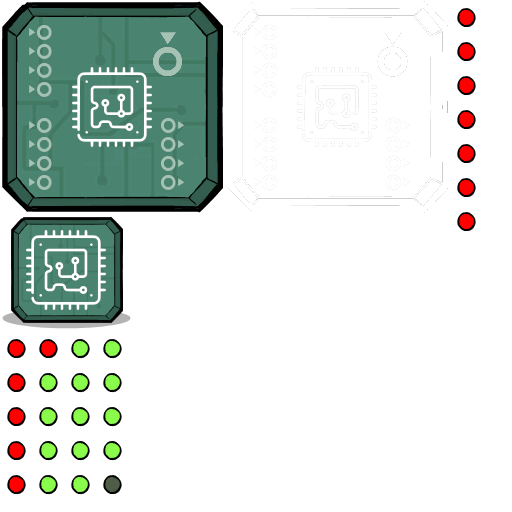
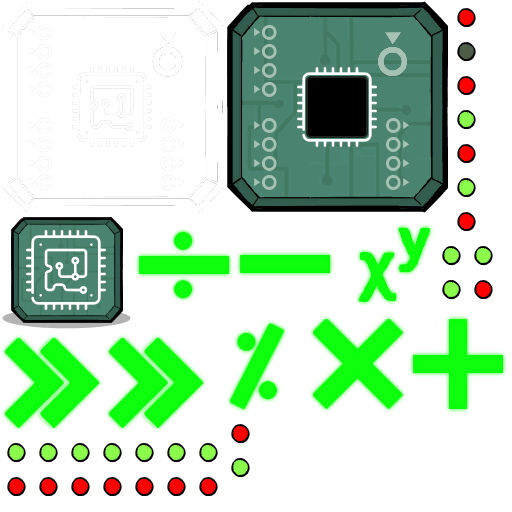
Updated Animations, corrected perf bugs, enabled op code selection

diff --git a/AutomationPlus/AluGate.cs b/AutomationPlus/AluGate.cs
@@ -165,6 +165,13 @@ namespace AutomationPlus
         private KBatchedAnimController kbac;
 
         [Serialize]
+        private int lhs;
+        [Serialize]
+        private int rhs;
+        [Serialize]
+        private AluGateOperators _inputOpCode;
+ 
+        [Serialize]
         protected int currentValue = 0;
         [Serialize]
         private AluGateOperators _opCode = AluGateOperators.none;
@@ -236,6 +243,7 @@ namespace AutomationPlus
             Action<AluGate, object> p = (c, d) => c.OnLogicValueChanged(d);
             this.kbac = this.GetComponent<KBatchedAnimController>();
             this.kbac.Play((HashedString)"off");
+            //this.kbac.Play("on_0");
             this.Subscribe<AluGate>(-801688580, p);
             this.ports = this.GetComponent<LogicPorts>();
             RefreshAnimations();
@@ -298,18 +306,44 @@ namespace AutomationPlus
             this.GetComponent<LogicPorts>().SendSignal(AluGate.OUTPUT_PORT_ID, currentValue);
         }
 
-        protected virtual bool ShouldRecalcValue(LogicValueChanged logicValueChanged) {
+        protected virtual bool HasPort(HashedString portId)
+        {
+            return portId == AluGate.INPUT_PORT_ID1
+                || portId == AluGate.INPUT_PORT_ID2
+                || portId == AluGate.OP_PORT_ID;
+
+        }
+        protected virtual bool HasValueChanged()
+        {
+            var currentLhs = GetInputValue1();
+            var currentRhs = GetInputValue2();
+            var currentOp = GetOpCode();
+
+            return currentLhs != lhs || currentRhs != rhs || currentOp != _inputOpCode;
+        }
+
+        protected virtual bool ShouldRecalcValue(LogicValueChanged logicValueChanged)
+        {
             return !(logicValueChanged.portID == AluGate.OUTPUT_PORT_ID);
         }
 
         public void OnLogicValueChanged(object data)
         {
+            LogicValueChanged logicValueChanged = (LogicValueChanged)data;
+
+            if (!this.HasPort(logicValueChanged.portID))
+            {
+                return;
+            }
+            if (!HasValueChanged())
+            {
+                return;
+            }
             if (this.ValueChanged != null)
             {
                 this.ValueChanged(this, EventArgs.Empty);
             }
 
-            LogicValueChanged logicValueChanged = (LogicValueChanged)data;
             if (!ShouldRecalcValue(logicValueChanged))
             {
                 RefreshAnimations();
@@ -322,53 +356,58 @@ namespace AutomationPlus
 
         private void RefreshAnimations()
         {
-            var val1 = GetInputValue1();
-            var val2 = GetInputValue2();
             var nw1 = Game.Instance.logicCircuitManager.GetNetworkForCell(this.ports.GetPortCell(AluGate.INPUT_PORT_ID1));
             var nw2 = Game.Instance.logicCircuitManager.GetNetworkForCell(this.ports.GetPortCell(AluGate.INPUT_PORT_ID2));
             var nwOp = Game.Instance.logicCircuitManager.GetNetworkForCell(this.ports.GetPortCell(AluGate.OP_PORT_ID));
             var nwOut = Game.Instance.logicCircuitManager.GetNetworkForCell(this.ports.GetPortCell(AluGate.OUTPUT_PORT_ID));
 
-            if (true)
+            if (false)
             {
+
+                this.kbac.Play("on");
+
+
                 this.TintSymbolConditionally(nwOp, () => nwOp.OutputValue > 0, this.kbac, "light5_bloom");
 
-                this.TintSymbolConditionally(nwOut, () => LogicCircuitNetwork.IsBitActive(3, currentValue), this.kbac, "light1_bloom");
+                this.TintSymbolConditionally(nwOut, () => LogicCircuitNetwork.IsBitActive(3, currentValue), this.kbac, "light1_bloom"); //12
                 this.TintSymbolConditionally(nwOut, () => LogicCircuitNetwork.IsBitActive(2, currentValue), this.kbac, "light2_bloom");
                 this.TintSymbolConditionally(nwOut, () => LogicCircuitNetwork.IsBitActive(1, currentValue), this.kbac, "light3_bloom");
-                this.TintSymbolConditionally(nwOut, () => LogicCircuitNetwork.IsBitActive(0, currentValue), this.kbac, "light4_bloom");
+                this.TintSymbolConditionally(nwOut, () => LogicCircuitNetwork.IsBitActive(0, currentValue), this.kbac, "light4_bloom"); // 9
 
-                this.TintSymbolConditionally(nw2, () => LogicCircuitNetwork.IsBitActive(3, val2), this.kbac, "light6_bloom");
-                this.TintSymbolConditionally(nw2, () => LogicCircuitNetwork.IsBitActive(2, val2), this.kbac, "light7_bloom");
-                this.TintSymbolConditionally(nw2, () => LogicCircuitNetwork.IsBitActive(1, val2), this.kbac, "light8_bloom");
-                this.TintSymbolConditionally(nw2, () => LogicCircuitNetwork.IsBitActive(0, val2), this.kbac, "light9_bloom");
+                this.TintSymbolConditionally(nw2, () => LogicCircuitNetwork.IsBitActive(3, rhs), this.kbac, "light6_bloom");  // 7
+                this.TintSymbolConditionally(nw2, () => LogicCircuitNetwork.IsBitActive(2, rhs), this.kbac, "light7_bloom");
+                this.TintSymbolConditionally(nw2, () => LogicCircuitNetwork.IsBitActive(1, rhs), this.kbac, "light8_bloom");
+                this.TintSymbolConditionally(nw2, () => LogicCircuitNetwork.IsBitActive(0, rhs), this.kbac, "light9_bloom");  // 4
 
-                this.TintSymbolConditionally(nw1, () => LogicCircuitNetwork.IsBitActive(3, val1), this.kbac, "light10_bloom");
-                this.TintSymbolConditionally(nw1, () => LogicCircuitNetwork.IsBitActive(2, val1), this.kbac, "light11_bloom");
-                this.TintSymbolConditionally(nw1, () => LogicCircuitNetwork.IsBitActive(1, val1), this.kbac, "light12_bloom");
-                this.TintSymbolConditionally(nw1, () => LogicCircuitNetwork.IsBitActive(0, val1), this.kbac, "light13_bloom");
+                this.TintSymbolConditionally(nw1, () => LogicCircuitNetwork.IsBitActive(3, lhs), this.kbac, "light10_bloom");  // 3
+                this.TintSymbolConditionally(nw1, () => LogicCircuitNetwork.IsBitActive(2, lhs), this.kbac, "light11_bloom");
+                this.TintSymbolConditionally(nw1, () => LogicCircuitNetwork.IsBitActive(1, lhs), this.kbac, "light12_bloom");
+                this.TintSymbolConditionally(nw1, () => LogicCircuitNetwork.IsBitActive(0, lhs), this.kbac, "light13_bloom");  // 0
             }
             else
             {
                 if (nw1 != null && nw2 != null && nwOut != null)
                 {
                     this.kbac.Play("on_0");
-                    ShowSymbolConditionally(nwOp?.OutputValue > 0, $"light_bloom_green_{4}", $"light_bloom_red_{4}");
 
-                    ShowSymbolConditionally(LogicCircuitNetwork.IsBitActive(3, currentValue), $"light_bloom_green_{0}", $"light_bloom_red_{0}");
-                    ShowSymbolConditionally(LogicCircuitNetwork.IsBitActive(2, currentValue), $"light_bloom_green_{1}", $"light_bloom_red_{1}");
-                    ShowSymbolConditionally(LogicCircuitNetwork.IsBitActive(1, currentValue), $"light_bloom_green_{2}", $"light_bloom_red_{2}");
-                    ShowSymbolConditionally(LogicCircuitNetwork.IsBitActive(0, currentValue), $"light_bloom_green_{3}", $"light_bloom_red_{3}");
+                    ShowSymbolConditionally(nwOp, () => nwOp.OutputValue > 0, $"light{8}_bloom_green", $"light{8}_bloom_red");
 
-                    ShowSymbolConditionally(LogicCircuitNetwork.IsBitActive(3, val2), $"light_bloom_green_{5}", $"light_bloom_red_{5}");
-                    ShowSymbolConditionally(LogicCircuitNetwork.IsBitActive(2, val2), $"light_bloom_green_{6}", $"light_bloom_red_{6}");
-                    ShowSymbolConditionally(LogicCircuitNetwork.IsBitActive(1, val2), $"light_bloom_green_{7}", $"light_bloom_red_{7}");
-                    ShowSymbolConditionally(LogicCircuitNetwork.IsBitActive(0, val2), $"light_bloom_green_{8}", $"light_bloom_red_{8}");
+                    ShowSymbolConditionally(nwOut, () => LogicCircuitNetwork.IsBitActive(3, currentValue), $"light{12}_bloom_green", $"light{12}_bloom_red");
+                    ShowSymbolConditionally(nwOut, () => LogicCircuitNetwork.IsBitActive(2, currentValue), $"light{11}_bloom_green", $"light{11}_bloom_red");
+                    ShowSymbolConditionally(nwOut, () => LogicCircuitNetwork.IsBitActive(1, currentValue), $"light{10}_bloom_green", $"light{10}_bloom_red");
+                    ShowSymbolConditionally(nwOut, () => LogicCircuitNetwork.IsBitActive(0, currentValue), $"light{9}_bloom_green", $"light{9}_bloom_red");
 
-                    ShowSymbolConditionally(LogicCircuitNetwork.IsBitActive(3, val1), $"light_bloom_green_{9}", $"light_bloom_red_{9}");
-                    ShowSymbolConditionally(LogicCircuitNetwork.IsBitActive(2, val1), $"light_bloom_green_{10}", $"light_bloom_red_{10}");
-                    ShowSymbolConditionally(LogicCircuitNetwork.IsBitActive(1, val1), $"light_bloom_green_{11}", $"light_bloom_red_{11}");
-                    ShowSymbolConditionally(LogicCircuitNetwork.IsBitActive(0, val1), $"light_bloom_green_{12}", $"light_bloom_red_{12}");
+                    ShowSymbolConditionally(nw2, () => LogicCircuitNetwork.IsBitActive(3, rhs), $"light{7}_bloom_green", $"light{7}_bloom_red");
+                    ShowSymbolConditionally(nw2, () => LogicCircuitNetwork.IsBitActive(2, rhs), $"light{6}_bloom_green", $"light{6}_bloom_red");
+                    ShowSymbolConditionally(nw2, () => LogicCircuitNetwork.IsBitActive(1, rhs), $"light{5}_bloom_green", $"light{5}_bloom_red");
+                    ShowSymbolConditionally(nw2, () => LogicCircuitNetwork.IsBitActive(0, rhs), $"light{4}_bloom_green", $"light{4}_bloom_red");
+
+                    ShowSymbolConditionally(nw1, () => LogicCircuitNetwork.IsBitActive(3, lhs), $"light{3}_bloom_green", $"light{3}_bloom_red");
+                    ShowSymbolConditionally(nw1, () => LogicCircuitNetwork.IsBitActive(2, lhs), $"light{2}_bloom_green", $"light{2}_bloom_red");
+                    ShowSymbolConditionally(nw1, () => LogicCircuitNetwork.IsBitActive(1, lhs), $"light{1}_bloom_green", $"light{1}_bloom_red");
+                    ShowSymbolConditionally(nw1, () => LogicCircuitNetwork.IsBitActive(0, lhs), $"light{0}_bloom_green", $"light{0}_bloom_red");
+
+                    DisplayOperator();
 
                 }
                 else
@@ -384,12 +423,33 @@ namespace AutomationPlus
             }
         }
 
+        private void DisplayOperator()
+        {
+            ToggleOperator(_inputOpCode == AluGateOperators.add, "op_add");
+            ToggleOperator(_inputOpCode == AluGateOperators.divide, "op_div");
+            ToggleOperator(_inputOpCode == AluGateOperators.exp, "op_exp");
+            ToggleOperator(_inputOpCode == AluGateOperators.logicalBitLeft, "op_bits_left");
+            ToggleOperator(_inputOpCode == AluGateOperators.logicalBitRight, "op_bits_right");
+            ToggleOperator(_inputOpCode == AluGateOperators.modulus, "op_mod");
+            ToggleOperator(_inputOpCode == AluGateOperators.multiply, "op_mul");
+            ToggleOperator(_inputOpCode == AluGateOperators.subtract, "op_minus");
+        }
+
+        private void ToggleOperator(
+          bool isOperator,
+          KAnimHashedString anim)
+        {
+            kbac.SetSymbolVisiblity(anim, isOperator);
+        }
+
         private void RecalcValues()
         {
-            var lhs = this.GetInputValue1();
-            var rhs = this.GetInputValue2();
+            lhs = this.GetInputValue1();
+            rhs = this.GetInputValue2();
+            this._inputOpCode = this.GetOpCode();
+            var oldValue = currentValue;
             currentValue = 0;
-            switch (this.GetOpCode())
+            switch (_inputOpCode)
             {
                 case AluGateOperators.add:
                     currentValue = lhs + rhs;
@@ -443,18 +503,23 @@ namespace AutomationPlus
             }
             // reduce the values
             currentValue = checkOverflow(currentValue);
-            this.UpdateValue();
+            if (oldValue != currentValue)
+            {
+                this.UpdateValue();
+            }
         }
 
 
 
         private void ShowSymbolConditionally(
-          bool active,
+            object nw,
+          Func<bool> active,
           KAnimHashedString ifTrue,
           KAnimHashedString ifFalse)
         {
-            kbac.SetSymbolVisiblity(ifTrue, active);
-            kbac.SetSymbolVisiblity(ifFalse, !active);
+            var connected = nw != null;
+            kbac.SetSymbolVisiblity(ifTrue, connected && active());
+            kbac.SetSymbolVisiblity(ifFalse, connected && !active());
         }
 
         private void TintSymbolConditionally(

diff --git a/AutomationPlus/DisplayAdaptor.cs b/AutomationPlus/DisplayAdaptor.cs
@@ -83,13 +83,11 @@ namespace AutomationPlus
             LogicValueChanged logicValueChanged = (LogicValueChanged)data;
             if (logicValueChanged.portID != DisplayAdaptor.INPUT_PORT_ID)
                 return;
-            var key = currentValue = logicValueChanged.newValue;
-            var info = DisplayInfo.GetDisplayInfo(IsHexMode, key);
-            this.GetComponent<LogicPorts>().SendSignal(DisplayAdaptor.OUTPUT_PORT_ID1, info.RibbonOutputs[0]);
-            this.GetComponent<LogicPorts>().SendSignal(DisplayAdaptor.OUTPUT_PORT_ID2, info.RibbonOutputs[1]);
-            this.GetComponent<LogicPorts>().SendSignal(DisplayAdaptor.OUTPUT_PORT_ID3, info.RibbonOutputs[2]);
-            this.GetComponent<LogicPorts>().SendSignal(DisplayAdaptor.OUTPUT_PORT_ID4, info.RibbonOutputs[3]);
-            this.GetComponent<LogicPorts>().SendSignal(DisplayAdaptor.OUTPUT_PORT_ID5, info.RibbonOutputs[4]);
+            if (currentValue != GetInputValue())
+            {
+                currentValue = GetInputValue();
+                RefreshOutput();
+            }
         }
 
         private void RefreshOutput()

diff --git a/AutomationPlus/DelayGate2.cs b/AutomationPlus/DelayGate2.cs
@@ -134,7 +134,6 @@ namespace AutomationPlus
         private int CurrentValue;
         private bool connected;
         private LogicPortVisualizer outputOne;
-        private float elapsedTime;
 
         private int DelayAmountTicks => Mathf.RoundToInt(this.delayAmount / LogicCircuitManager.ClockTickInterval);
 
@@ -242,7 +241,8 @@ namespace AutomationPlus
             if (logicValueChanged.portID == DelayGate.INPUT_PORT_ID)
             {
                 var last = this.info.journal.LastOrDefault();
-                if (last == null || last.value != logicValueChanged.newValue)
+                var inputValue = this.GetInputValue();
+                if (last == null || last.value != inputValue)
                 {
                     var info = DelayGateInfoPool.getOrCreate();
                     info.value = logicValueChanged.newValue;

diff --git a/AutomationPlus/Alu8Gate.cs b/AutomationPlus/Alu8Gate.cs
@@ -1,4 +1,5 @@
-using System;
+using KSerialization;
+using System;
 using System.Collections.Generic;
 using System.Linq;
 using System.Text;
@@ -48,6 +49,14 @@ namespace AutomationPlus
             var val2 = this.currentValue | 0xf;
             this.GetComponent<LogicPorts>().SendSignal(AluGate.OUTPUT_PORT_ID, val1);
             this.GetComponent<LogicPorts>().SendSignal(Alu8Gate.OUTPUT_PORT_IDB, val2);
+        }
+
+        protected override bool HasPort(HashedString portId)
+        {
+            return base.HasPort(portId)
+                || portId == Alu8Gate.INPUT_PORT_ID1B
+                || portId == Alu8Gate.INPUT_PORT_ID2B
+                || portId == Alu8Gate.OUTPUT_PORT_IDB;
         }
     }
 }

diff --git a/AutomationPlus/AluGateSideScreen.cs b/AutomationPlus/AluGateSideScreen.cs
@@ -213,7 +213,7 @@ namespace AutomationPlus
                 checkOp();
                 PCheckBox.SetCheckState(this.toggle, targetAluGate.isTwosComplement ? PCheckBox.STATE_CHECKED: PCheckBox.STATE_UNCHECKED);
                 var opCode = targetAluGate.GetOpCode();
-                if(!this._opCodeNames.ContainsKey(targetAluGate.opCode))
+                if(!this._opCodeNames.ContainsKey(opCode))
                 {
                     opCode = AluGateOperators.none;
                 }
